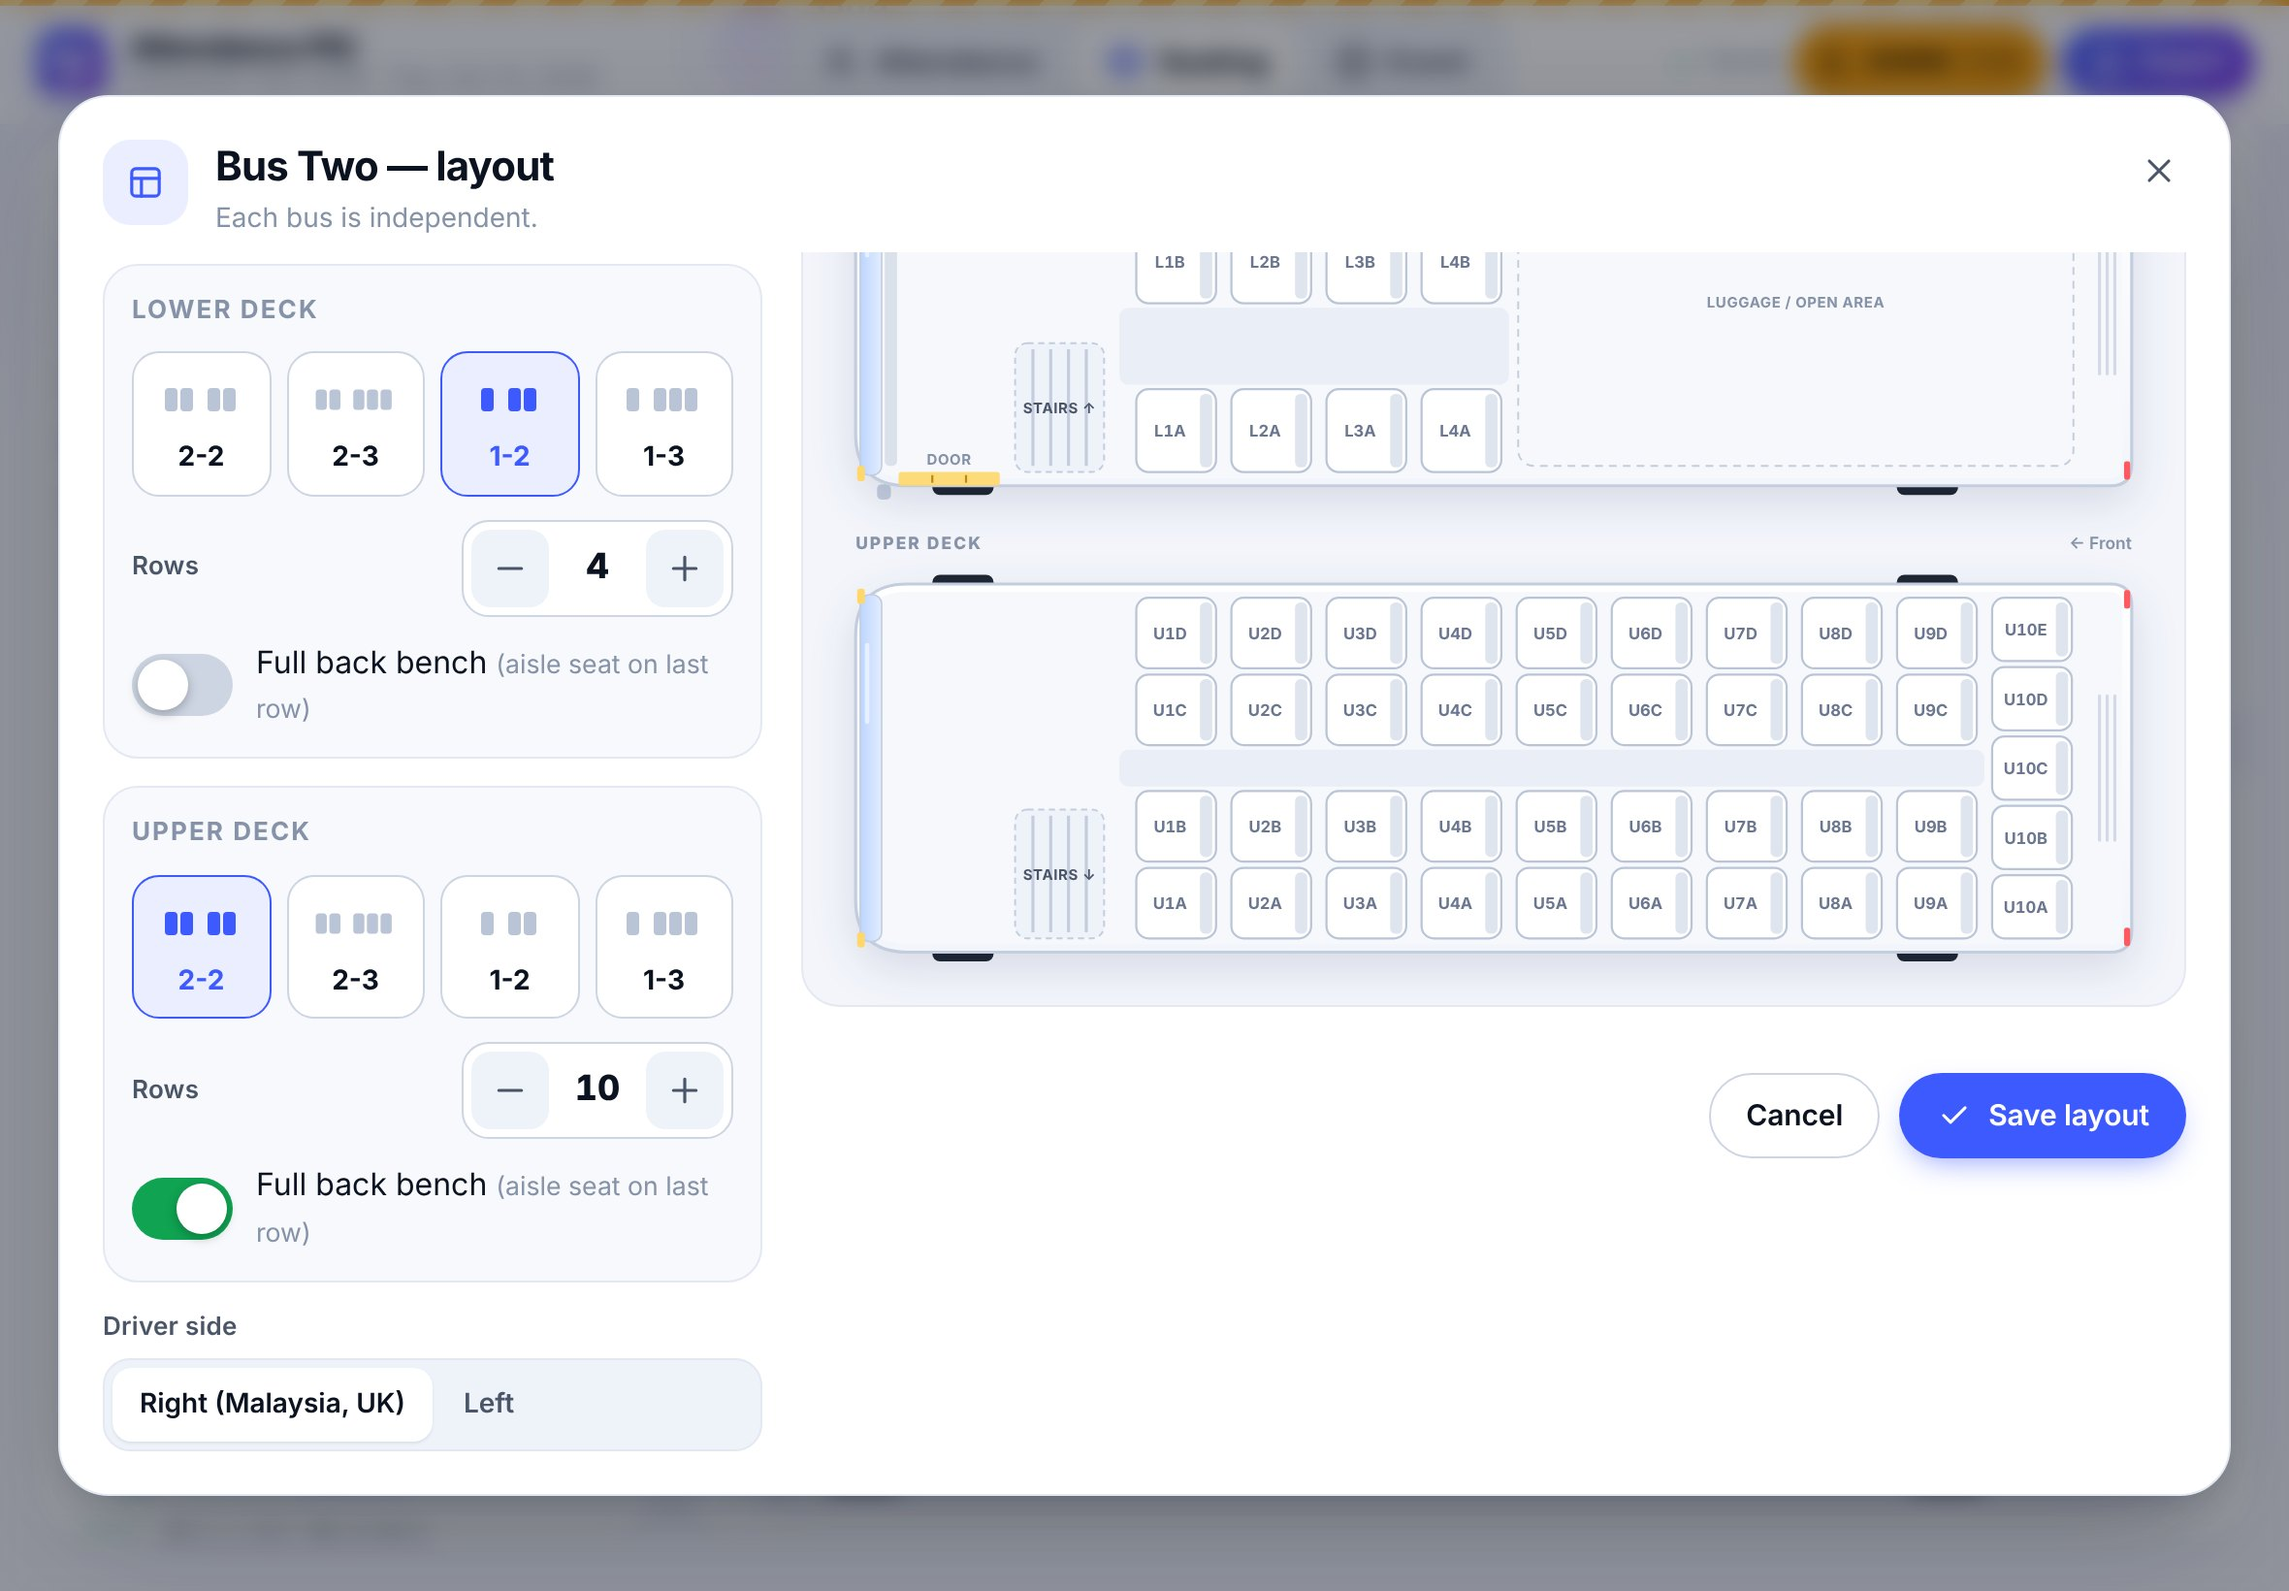
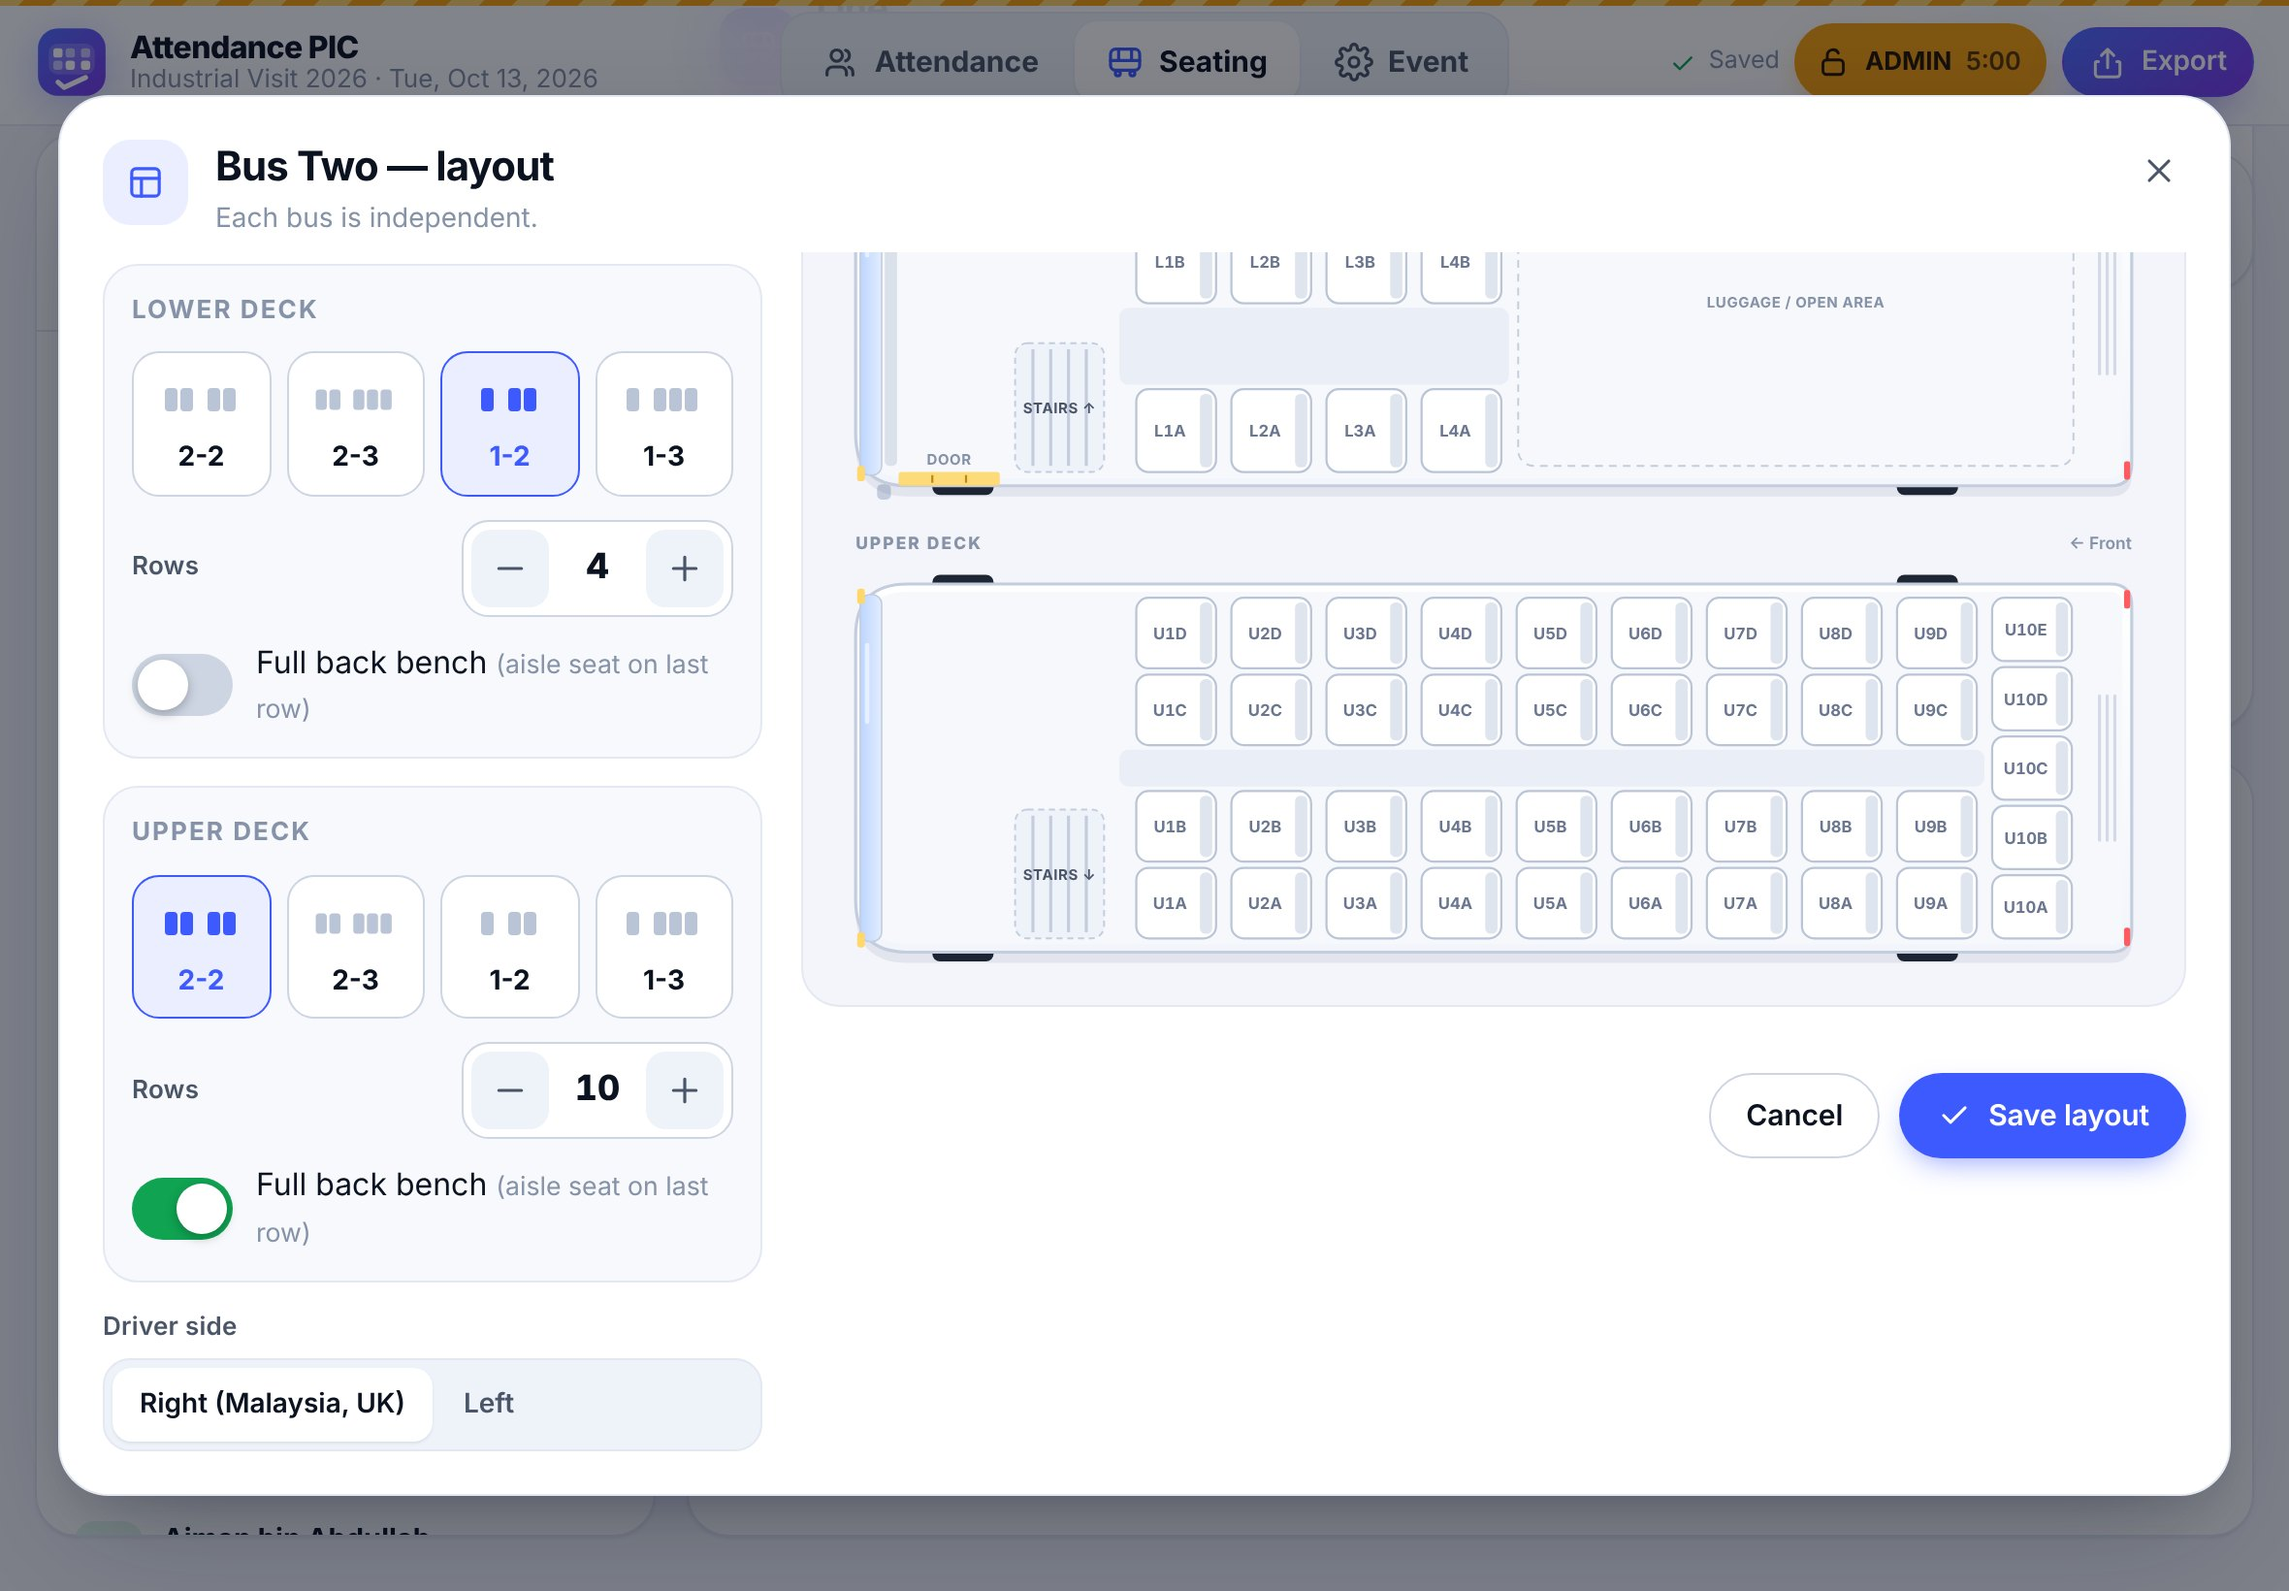
Speed up rendering for WebKit; parallel CI jobs per browser
The second CI run showed WebKit tests passing but taking 25-60 s each on
GPU-less runners, which made the log look frozen.

- CSS: drop full-screen backdrop blur behind dialogs, fixed page
  background and drop-shadow filters (bus body shadow is now an offset
  shape, selected seat pulses its stroke) - cheaper on older iPads too
- Reset-all test waits for the confirmation dialog by name
- tests.yml: matrix (chromium, webkit) in parallel, 25 min limit,
  --max-failures=8, cancel superseded runs, GitHub annotations reporter
- Screenshots regenerated; decisions P13/P14

Claude-Session: https://claude.ai/code/session_017cmpswsMSqKzXQX5EgusX3

Changed region(s): [[0.0, 0.0, 1.0, 0.0622]]

diff --git a/app/css/bus.css b/app/css/bus.css
@@ -97,7 +97,11 @@
 .bus-svg { display: block; width: 100%; height: auto; font-family: var(--font); overflow: visible; -webkit-user-select: none; user-select: none; }
 .deck-title { font-size: 11px; font-weight: 800; letter-spacing: 0.12em; fill: var(--text-3); }
 .deck-front { font-size: 11px; font-weight: 600; fill: var(--text-3); }
-.bus-body { fill: url(#body-grad); stroke: var(--bus-stroke); stroke-width: 2; filter: drop-shadow(0 10px 14px rgba(20, 30, 70, 0.12)); }
+.bus-body { fill: url(#body-grad); stroke: var(--bus-stroke); stroke-width: 2; }
+/* A plain offset shape instead of a CSS drop-shadow filter: same look, a fraction of the paint cost. */
+.bus-shadow { fill: rgba(20, 30, 70, 0.07); }
+:root[data-theme="dark"] .bus-shadow { fill: rgba(0, 0, 0, 0.35); }
+@media (prefers-color-scheme: dark) { :root:not([data-theme="light"]) .bus-shadow { fill: rgba(0, 0, 0, 0.35); } }
 .bus-floor { fill: var(--bus-floor); }
 .bus-aisle { fill: var(--bus-aisle); }
 .bus-glass { fill: url(#glass-grad); stroke: var(--bus-stroke); stroke-width: 1; }
@@ -161,10 +165,10 @@
 .seat--vip.seat--absent .seat-base { fill: var(--seat-absent); }
 .seat-crown { fill: var(--vip); }
 .seat--selected .seat-base { stroke: var(--brand); stroke-width: 3; fill: var(--brand-soft); }
-.seat--selected { animation: seatPulse 1.4s ease-in-out infinite; }
+.seat--selected .seat-base { animation: seatPulse 1.4s ease-in-out infinite; }
 .seat--highlight .seat-base { stroke: var(--present); stroke-width: 3; }
 .seat--dim { opacity: 0.35; }
-@keyframes seatPulse { 0%, 100% { filter: drop-shadow(0 0 0 rgba(61, 90, 254, 0)); } 50% { filter: drop-shadow(0 0 6px rgba(61, 90, 254, 0.75)); } }
+@keyframes seatPulse { 0%, 100% { stroke-opacity: 1; } 50% { stroke-opacity: 0.35; } }
 .seat:focus-visible .seat-base { stroke: var(--brand); stroke-width: 3; }
 .seat.is-pop .seat-base { animation: pop 0.45s var(--spring); transform-box: fill-box; transform-origin: center; }
 @keyframes pop { 0% { transform: scale(0.82); } 100% { transform: scale(1); } }

diff --git a/app/css/app.css b/app/css/app.css
@@ -140,7 +140,6 @@ body {
     radial-gradient(1100px 520px at 8% -10%, var(--bg-glow-1), transparent 60%),
     radial-gradient(900px 480px at 100% 0%, var(--bg-glow-2), transparent 60%),
     var(--bg);
-  background-attachment: fixed;
   -webkit-font-smoothing: antialiased;
   -webkit-tap-highlight-color: transparent;
   overscroll-behavior-y: none;
@@ -489,7 +488,7 @@ main#view { flex: 1; width: 100%; max-width: 1400px; margin: 0 auto; padding: 18
 /* ── Overlays ─────────────────────────────────────────────────────────────── */
 .ov-backdrop {
   position: fixed; inset: 0; z-index: 100; display: grid; place-items: center; padding: 20px;
-  background: rgba(8, 12, 24, 0.42); -webkit-backdrop-filter: blur(6px); backdrop-filter: blur(6px);
+  background: rgba(8, 12, 24, 0.5);
   opacity: 0; transition: opacity 0.2s var(--ease);
 }
 .ov-backdrop.is-open { opacity: 1; }

diff --git a/tests/attendance.spec.js b/tests/attendance.spec.js
@@ -78,12 +78,14 @@ test.describe('Attendance', () => {
     await pressPin(page);
     await page.getByTestId('reset-go').click();
     // confirmation step — cancel keeps everything
-    await page.locator('[data-action=cancel]').click();
+    await page.getByRole('dialog', { name: 'Are you sure?' }).locator('[data-action=cancel]').click();
     await expect(row(page, 0)).toHaveAttribute('data-status', 'present');
     await page.getByTestId('att-more').click();
     await page.locator('.choice[data-value=reset]').click();
     await page.getByTestId('reset-go').click();
-    await page.locator('[data-action=ok]').click();
+    const confirm = page.getByRole('dialog', { name: 'Are you sure?' });
+    await expect(confirm).toBeVisible();
+    await confirm.locator('[data-action=ok]').click();
     await expect(page.getByTestId('counter')).toHaveAttribute('aria-label', '0 present, 0 absent, 60 unmarked of 60');
   });
 

diff --git a/app/js/ui/bus-svg.js b/app/js/ui/bus-svg.js
@@ -65,7 +65,8 @@ export function renderBusSVG(bus, seatState, opts = {}) {
         g.push(rect(T({ along: 14, across, len: 9, wid: 10 }), 'bus-mirror', 3));
       }
     }
-    // Body
+    // Body (+ a soft offset shadow drawn as a shape — cheaper than a CSS filter)
+    g.push(`<path class="bus-shadow" d="${bodyPath}" transform="translate(0 7)"/>`);
     g.push(`<path class="bus-body" d="${bodyPath}"/>`);
     const inner = T({ along: 6, across: GEO.wall - 4, len: geo.L - 12, wid: geo.W - (GEO.wall - 4) * 2 });
     g.push(`<path class="bus-floor" d="${flipped ? rrPath(inner.x, inner.y, inner.w, inner.h, 9, 28, 28, 9) : rrPath(inner.x, inner.y, inner.w, inner.h, 28, 9, 9, 28)}"/>`);

diff --git a/playwright.config.js b/playwright.config.js
@@ -22,7 +22,7 @@ export default defineConfig({
   fullyParallel: true,
   workers: process.env.CI ? 3 : 4,
   retries: process.env.CI ? 1 : 0,
-  reporter: process.env.CI ? [['list'], ['html', { open: 'never' }]] : [['list']],
+  reporter: process.env.CI ? [['list'], ['github'], ['html', { open: 'never' }]] : [['list']],
   use: {
     baseURL: `http://localhost:${PORT}/attendance-pic/`,
     acceptDownloads: true,

diff --git a/docs/DECISIONS.md b/docs/DECISIONS.md
@@ -99,3 +99,5 @@ reasoning, so it can be revisited later.
 | P10 | The PIN screen cannot be dismissed on first launch; a "Restore a backup" shortcut is offered on the empty start screen. | The brief requires a PIN on first launch; restoring on a new iPad is a common first step. |
 | P11 | The admin countdown dispatches a separate **`tick`** event (only the ADMIN pill listens); `change` fires only on lock/unlock. | Found by the first WebKit CI run: re-rendering every second detached buttons and would close the iPad keyboard while typing. |
 | P12 | Tests run with **`reducedMotion: 'reduce'`** (the app honours it), and the end-to-end *offline reload* test is Chromium-only; WebKit checks the service-worker cache contents instead. | Playwright's WebKit raises "internal error" on reload while offline-emulated; animations are decorative and only slow down stability checks. |
+| P13 | No full-screen `backdrop-filter` behind dialogs, no `background-attachment: fixed`, and no CSS `drop-shadow` filters on bus bodies / the selected seat (an offset shape and a stroke pulse instead). | GPU-less WebKit on CI spent seconds per frame on them (tests took 25–60 s each); cheaper painting also helps older iPads. |
+| P14 | CI runs Chromium and WebKit as **two parallel jobs** with a 25-minute limit and `--max-failures=8`; newer runs cancel older ones on the same branch. | Fast, separate signal per engine; a slow browser can never look like a frozen run. |
